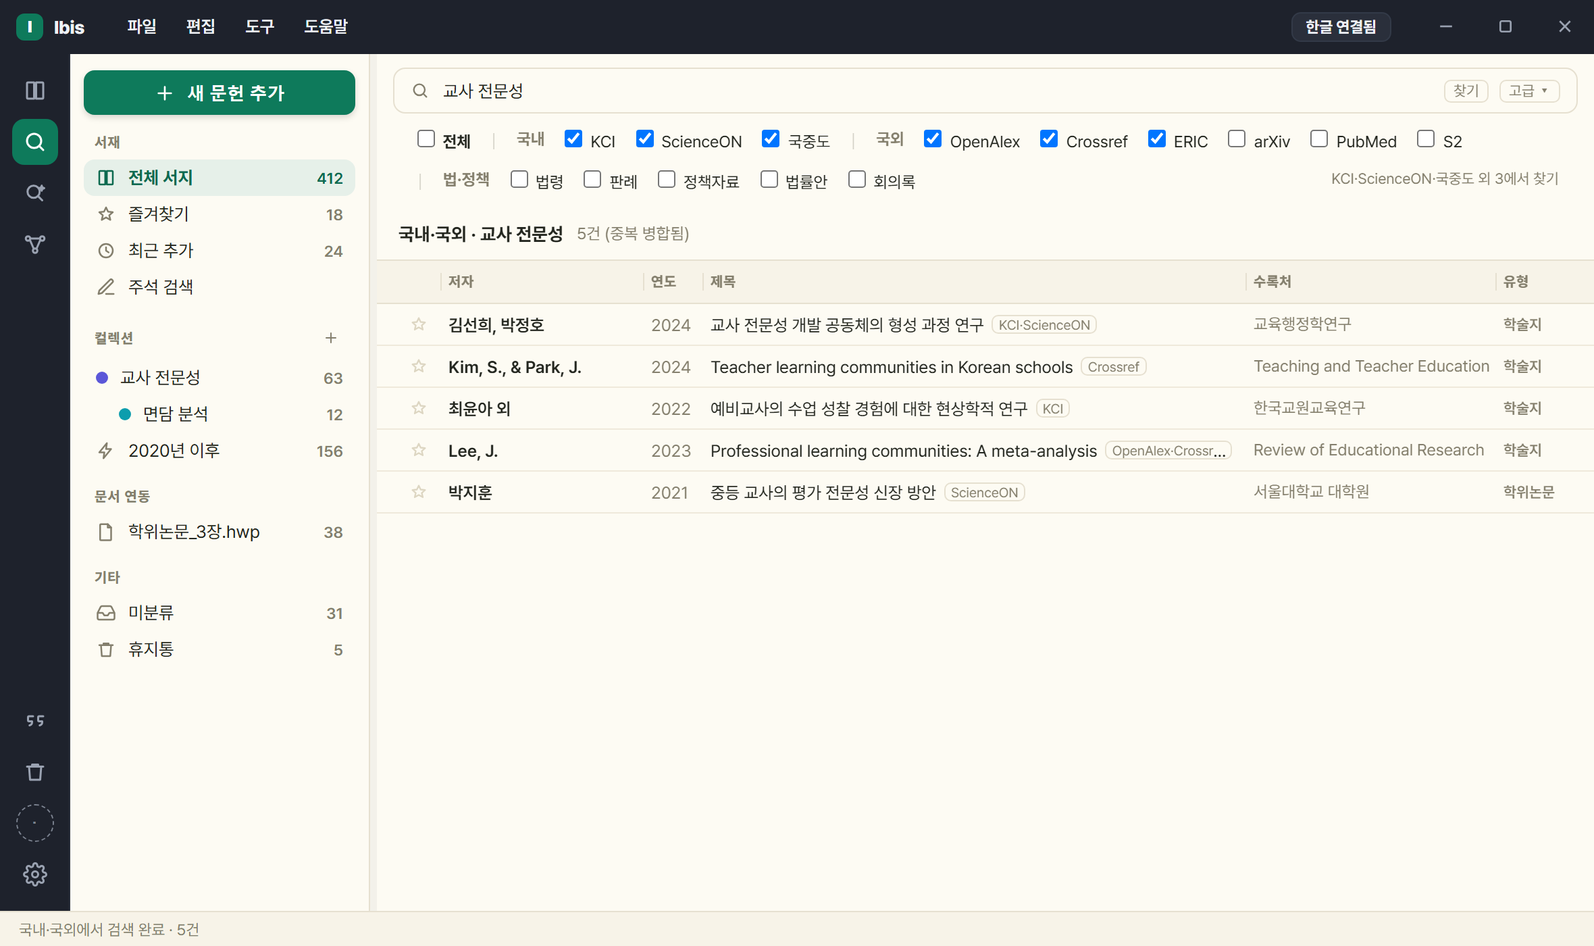
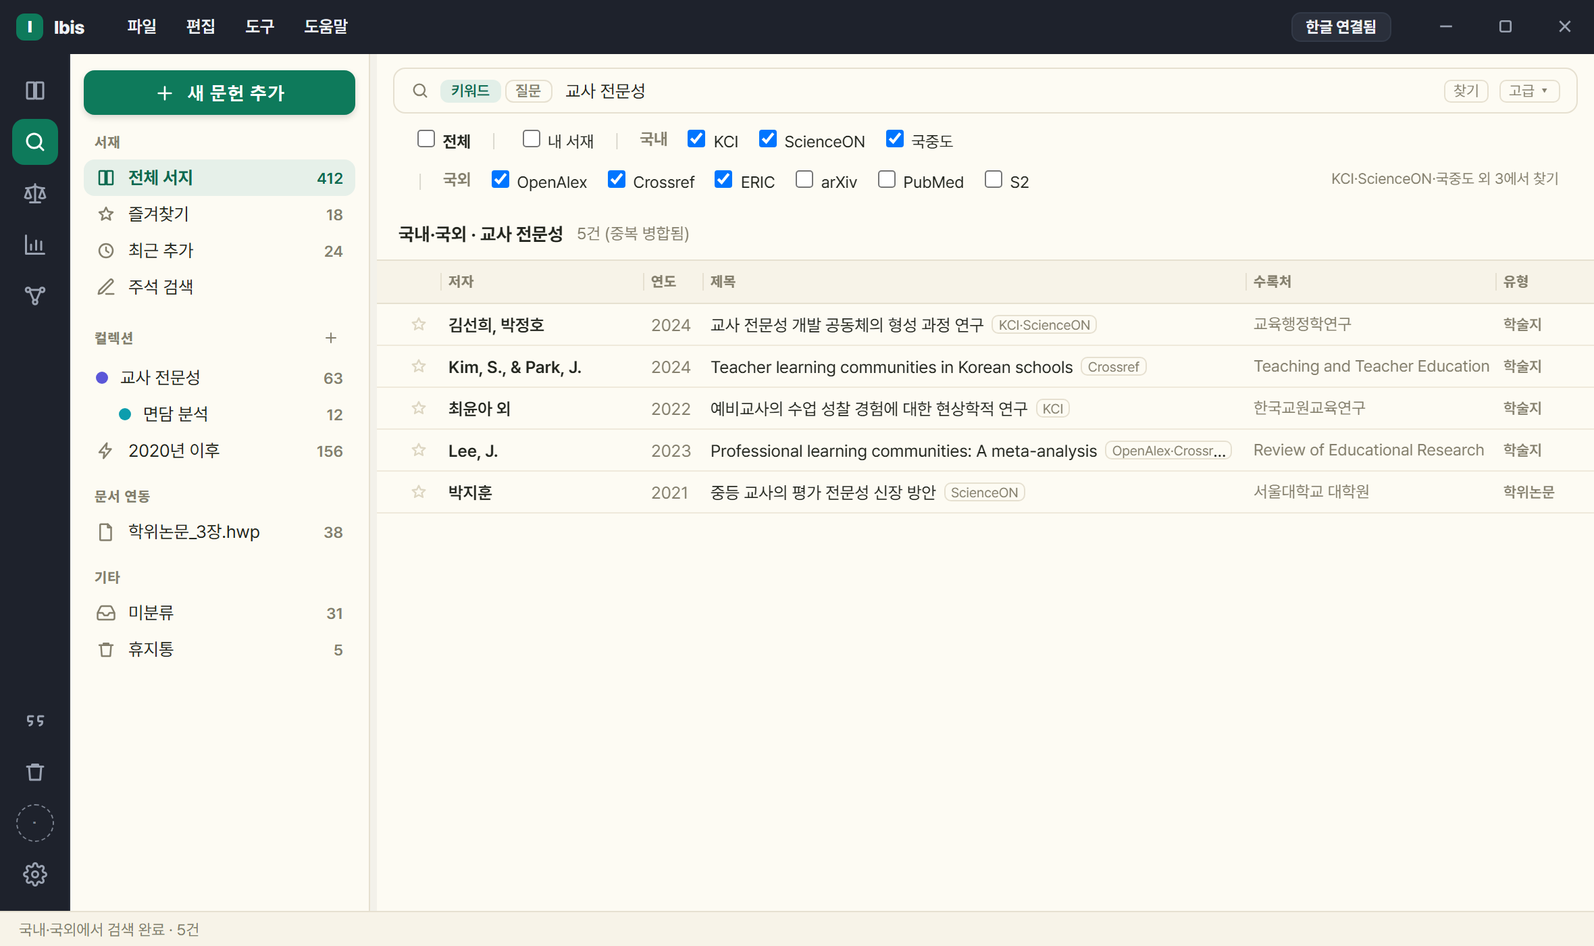
docs: 2026.9.12 반영 — 레일 찾기 아이콘 셋(학술·법·정책·통계) + 키워드/질문 칩 · 통계(KOSIS) 절 · 내 서재 칸 통일 · 캡처 재생성

diff --git a/docs/USAGE.md b/docs/USAGE.md
@@ -1,6 +1,6 @@
 # Ibis 사용 설명서
 
-한국어로 연구하는 사람을 위한 **문헌 관리 앱**. **찾기 → 원문 확보 → 읽기·AI 분석 → 정리·태그 그래프 → 동료와 나누기** 까지 한 프로그램 안에서 합니다. 아래아한글·Word 본문 인용(CWYW)도 그중 한 기능입니다. 기준 버전 **2026.9.11**.
+한국어로 연구하는 사람을 위한 **문헌 관리 앱**. **찾기 → 원문 확보 → 읽기·AI 분석 → 정리·태그 그래프 → 동료와 나누기** 까지 한 프로그램 안에서 합니다. 아래아한글·Word 본문 인용(CWYW)도 그중 한 기능입니다. 기준 버전 **2026.9.12**.
 
 - 표기: `⚙설정` · `파일`·`편집`·`도구` 메뉴 · `새 문헌 추가` 는 화면의 실제 라벨입니다.
 - 좌측 세로 아이콘 줄 = **레일**, 상단의 '○○ 모드 · 문서명' = **상태 배지**.
@@ -58,7 +58,7 @@
 | 영역 | 하는 일 |
 |---|---|
 | **타이틀바** | 메뉴(파일·편집·도구·도움말) + 우측 **연결 상태 배지**(클릭 시 문서 연결) |
-| **레일**(맨 왼쪽) | 서재 · **키워드로 찾기** · **질문으로 찾기** · 그래프 뷰 전환. 세 모드가 **같은 서재 사이드바**를 쓰고(어느 모드에서든 컬렉션을 누르면 그 뷰로 갑니다), 찾기 줄과 그 아래 DB 체크 행도 같은 자리입니다(2026.9.8). 맨 아래에 **계정 동그라미**(로그인하면 구글 사진), 아래쪽에 **인용 편집 창** · 휴지통 · **⚙설정**(맨 아래). 레일의 참고문헌 갱신(⟳) 아이콘은 2026.9.6 에 뺐습니다 — 새로고침으로 오해돼서요. 갱신은 [4.5](#45-전체-갱신--참고문헌-갱신) 의 자리에서 합니다 |
+| **레일**(맨 왼쪽) | 서재 · **찾기(학술)** · **법·정책**(저울) · **통계**(막대) · 그래프 뷰 전환(2026.9.12 — 찾기 셋은 *어디서* 찾을지고, 낱말/문장은 찾기 줄의 **키워드 \| 질문** 칩). 찾기 모드가 **같은 서재 사이드바**를 쓰고(어느 모드에서든 컬렉션을 누르면 그 뷰로 갑니다), 찾기 줄과 그 아래 DB 체크 행도 같은 자리입니다(2026.9.8). 맨 아래에 **계정 동그라미**(로그인하면 구글 사진), 아래쪽에 **인용 편집 창** · 휴지통 · **⚙설정**(맨 아래). 레일의 참고문헌 갱신(⟳) 아이콘은 2026.9.6 에 뺐습니다 — 새로고침으로 오해돼서요. 갱신은 [4.5](#45-전체-갱신--참고문헌-갱신) 의 자리에서 합니다 |
 | **사이드바** | 맨 위 **'새 문헌 추가'** 버튼(추가 방법 메뉴 런처) + 서재 · 컬렉션 · 스마트 컬렉션 · 문서 연동 · 기타(미분류·중복 점검·휴지통·연결 안 된 PDF) |
 | **목록** | 검색줄 + 필터 칩 + 정렬·폭 조절 가능한 문헌 표 |
 | **상세 패널** | 서지정보 · 인용 미리보기 · 첨부. 인용 삽입과 원문·AI 동작 버튼 |
@@ -114,17 +114,18 @@
 
 ### 3.1 질문으로 찾기 (2026.9.1)
 
-낱말이 아니라 **연구 질의를 문장으로** 던지면, 국내외 학술 DB 를 뒤져 **관련도 순위**로 돌려줍니다. 레일 **세 번째 아이콘**입니다.
+낱말이 아니라 **연구 질의를 문장으로** 던지면, 국내외 학술 DB 를 뒤져 **관련도 순위**로 돌려줍니다. 레일 **찾기(학술)** 아이콘을 누르고 찾기 줄 왼쪽의 **[질문]** 칩을 켭니다(2026.9.12 — 별도 아이콘이 아니라 키워드/질문 **모드 칩**입니다. 통계 아이콘에서도 됩니다 — [3.2-1](#32-1-통계kosis--표-찾기--수치-보기--데이터세트로-인용-2026912); 법·정책은 키워드뿐).
 
 결과는 **키워드로 찾기와 같은 표**에 나옵니다(2026.9.8 — 그전에는 별도 카드 목록이었습니다). 맨 왼쪽에 **관련도 칸**(순위 · 막대 · 0~1 점수)이 하나 더 붙고, 그 칸은 질문으로 찾기에서만 보입니다. 최근 질의·보낸 검색어·사정 고지는 표 바로 위 한 줄에 있습니다.
 
 ![질문으로 찾기 — 문장으로 물으면 관련도 순위로 돌려준다](images/ask.png)
 
 1. 질의를 문장으로 적습니다 — 예: `국내 교육사회학 연구에서 교육불평등을 어떻게 다뤄 왔나`.
-2. 찾기 줄 아래 **체크 행**에서 어디서 찾을지 고릅니다: `전체` │ **내 서재** │ **국내**(KCI·ScienceON·국립중앙도서관) │ **국외**(OpenAlex·Crossref·ERIC·arXiv·PubMed). 행 오른쪽 끝에 **예상 크레딧**(`+2~7` 처럼)이 적힙니다.
-   - **내 서재 칸은 기본이 꺼짐**입니다(2026.9.10) — 꺼져 있으면 DB 에서만 찾고, 그중 이미 담아 둔 것에는 **[보관됨]** 배지가 붙습니다. 켜면 서재 문헌도 후보로 순위에 함께 듭니다.
+2. 찾기 줄 아래 **체크 행**에서 어디서 찾을지 고릅니다: `전체` │ **내 서재** │ **국내**(KCI·ScienceON·국립중앙도서관) │ **국외**(OpenAlex·Crossref·ERIC·arXiv·PubMed·S2). 행 오른쪽 끝에 지금 조합(`KCI·ScienceON·국중도 외 3에서 찾기`)과 **예상 크레딧**(`+2~7` 처럼)이 적힙니다. **키워드로 찾기와 같은 목록·같은 기억**입니다(2026.9.12 — 한쪽에서 끄면 다른 쪽도 꺼져 있습니다).
+   - **내 서재 칸은 기본이 꺼짐**입니다(2026.9.10) — 꺼져 있으면 DB 에서만 찾고, 그중 이미 담아 둔 것에는 **[보관됨]** 배지가 붙습니다. 켜면 서재 문헌도 후보로 순위에 함께 듭니다. 키워드로 찾기에도 같은 칸이 있습니다(2026.9.12 — 켜면 서재에서 같은 검색어로 찾은 문헌이 [보관됨]으로 함께 서고, 서재만 켜면 서재 검색).
    - **법·정책 다섯 갈래는 여기에 없습니다**(2026.9.11) — [3.2](#32-검색-소스) 의 키워드로 찾기에서만 씁니다. 법률안의 제안이유는 수백 자인데 회의록은 안건 한 줄이라 채점 재료의 길이가 달라 법률안이 상위를 독식했습니다. 그 문제를 풀기 전까지 뺐습니다.
 3. 진행이 단계로 보입니다 — `검색어 만들기 → DB에서 찾기 → 관련도 매기기 → 정리`(지금 단계가 점멸).
+4. 안내줄의 **검색어**를 누르면 그 검색어로 키워드로 찾기가 바로 돕니다(2026.9.12 — 질문 = 탐색, 키워드 = 확정). 최근 질의는 셋만 보이고 나머지는 **[+N ▾]** 에 접혀 있습니다.
 
 - **검색어는 AI 가 만듭니다** — 국문·영문 조합을 한 번에 짭니다. 낱말을 뽑는 규칙으로 하면 국문 질의에서 엉뚱한 것이 걸립니다.
 - **모은 것을 전부 채점합니다** — 통상 200여 건을 모아 100여 편을 순위로 보여 줍니다. 상한을 두면 정답이 순위에도 못 오르는 일이 생겨 없앴습니다.
@@ -140,11 +141,11 @@
 
 > 낱말로 좁혀 찾는 것은 **키워드로 찾기**([3.2](#32-검색-소스))입니다. 질문으로 찾기는 *무엇을 찾아야 할지부터 넓게 훑을 때* 씁니다. 둘은 짝입니다 — **낱말로 찾으면 키워드로 찾기, 문장으로 물으면 질문으로 찾기**.
 >
-> 두 찾기는 **같은 자리(찾기 줄 아래)에서 같은 방식**으로 DB 를 고릅니다 — 묶음 이름을 누르면 그 묶음이 통째로 켜지고 꺼지며 조합은 자유입니다. 다만 **목록은 다릅니다**: 키워드로 찾기에는 **법·정책 다섯 갈래**와 S2 가 있고, 질문으로 찾기에는 **내 서재** 칸이 있습니다(기본 꺼짐 — 켜면 서재 문헌도 순위에 함께 듭니다). 고른 조합은 키워드 쪽만 기억됩니다.
+> 두 찾기는 **같은 자리(찾기 줄 아래)에서 같은 방식**으로 DB 를 고르고, 2026.9.12 부터 **목록도 기억도 같습니다**(내 서재 칸·S2 둘 다 양쪽에). 법·정책은 별도 아이콘(레일 셋째)이고 키워드로만 찾습니다. 물음표로 끝나는 낱말 검색은 질문 모드를 **권하기만** 합니다 — 자동으로 바꾸지 않습니다(크레딧이 듭니다).
 
 ### 3.2 검색 소스
 
-레일 **두 번째 아이콘 [키워드로 찾기]** 입니다. 어디서 찾을지는 **찾기 줄 바로 아래 체크 행**에서 고릅니다 — `전체 │ 국내 KCI·ScienceON·국중도 │ 국외 OpenAlex·Crossref·ERIC·arXiv·PubMed·S2 │ 법·정책 법령·판례·정책자료·법률안·회의록`(arXiv·PubMed·S2 와 법·정책 다섯은 **기본 꺼짐**). **'국내'·'국외' 글자를 누르면 그 묶음이 통째로 켜지고 꺼지며**, 원하는 대로 섞어도 됩니다(KCI+ERIC 만 같은 조합도 가능). 고른 조합은 기억되고, 행 오른쪽 끝에 `○○에서 찾기` 라고 지금 조합이 적힙니다(고른 것이 없으면 'DB 를 하나 이상 고르세요').
+레일의 찾기 아이콘 셋이 **어디서 찾을지(범위)** 입니다(2026.9.12): **찾기(학술)** — 체크 행 `전체 │ 내 서재 │ 국내 KCI·ScienceON·국중도 │ 국외 OpenAlex·Crossref·ERIC·arXiv·PubMed·S2`(arXiv·PubMed·S2·내 서재는 **기본 꺼짐**) / **법·정책**(저울) — `법령·판례·정책자료·법률안·회의록` / **통계**(막대) — KOSIS 하나라 체크 없이 안내 한 줄. 범위가 갈려 있어 법령 몇 건 사이에 논문 수백 건이 끼지 않고, 조합은 **범위마다 따로** 기억됩니다. **'국내'·'국외' 글자를 누르면 그 묶음이 통째로 켜지고 꺼지며**, 원하는 대로 섞어도 됩니다(KCI+ERIC 만 같은 조합도 가능). 행 오른쪽 끝에 `○○에서 찾기` 라고 지금 조합이 적힙니다(고른 것이 없으면 'DB 를 하나 이상 고르세요'). 낱말로 찾을지 문장으로 물을지는 찾기 줄 왼쪽의 **키워드 \| 질문** 칩입니다.
 
 소스는 **국내 3종 · 해외 6종 · 법·정책 5갈래** 이며, 둘 이상을 켜면 병렬로 질의한 뒤 중복을 합칩니다.
 
@@ -165,7 +166,7 @@
 | 해외 | **PubMed** (2026.9.5) | 의학·보건·간호(미국 국립의학도서관) — 초록·MeSH 주제어 포함, 총건수 표시. 주제 범위가 좁아 **해외 통합·질문으로 찾기에서는 기본 꺼짐** | 불필요 |
 | 법·정책 | **법령** · **판례** | 법제처 국가법령정보 — 현행법령·자치법규, 대법원·하급심 판례 | **불필요(앱 내장)** |
 | 법·정책 | **정책자료** · **법률안** · **회의록** | 국회도서관 — 공공기관 정책자료(회색문헌), 국회 의안, 국회 회의록 | **불필요(앱 내장)** |
-| — | 내 서지 | 보관한 문헌 — 키워드로 찾기의 체크 항목은 아닙니다. **서재 모드의 찾기 줄**에서 찾고([3.8](#38-내-서지-전문검색fts)), 질문으로 찾기에는 '내 서재' 칸이 있습니다([3.1](#31-질문으로-찾기-202691)). 찾은 결과가 이미 서재에 있으면 행에 **'보관됨'** 배지가 붙습니다 | — |
+| — | 내 서지 | 보관한 문헌 — 키워드·질문 두 찾기 모두 **'내 서재'** 칸이 있습니다(2026.9.12, 기본 꺼짐). 켜면 서재에서 같은 검색어로 찾은 문헌이 결과에 **[보관됨]**으로 함께 서고, 서재만 켜면 서재 검색이 됩니다. 서재 모드의 찾기 줄([3.8](#38-내-서지-전문검색fts))은 그대로입니다 | — |
 
 - **KCI 와 국립중앙도서관은 앱 내장 키로 동작합니다** — 사용자가 발급받을 것이 없고 설정에 입력 칸도 없으며, 설치 직후부터 소스 목록에 보입니다.
 - **모든 학술 DB 와 법·정책이 앱 내장 키로 동작합니다**(2026.9.9) — **발급받을 것이 하나도 없습니다.** ScienceON 인증키 세 값을 넣던 칸도 없앴습니다. 오래 적혀 있던 "인증키는 발급받은 공인 IP 에 묶인다" 는 실측으로 반증됐습니다(등록 IP 가 아닌 두 망에서 정상 동작).
@@ -183,6 +184,15 @@
 **총건수 표시** — 목록 머리에 `20건 (총 465건)`, 상태줄에 `국립중앙도서관 · 총 332건 중 20건` 처럼 나옵니다. 총건수를 알려 주지 않는 소스(Crossref·OpenAlex·S2·arXiv·ERIC)는 미상으로 두고 숫자를 적지 않습니다.
 
 ![키워드로 찾기 — 찾기 줄 아래 DB 선택 행, 결과에 출처 배지](images/search.png)
+
+### 3.2-1 통계(KOSIS) — 표 찾기 · 수치 보기 · 데이터세트로 인용 (2026.9.12)
+
+레일의 **통계** 아이콘은 KOSIS 국가통계포털의 통계표를 찾습니다(내장 키 — 설정 없음). 표 하나가 서지 하나(**데이터세트** 유형)입니다.
+
+- **키워드** — 통합검색은 검색어 하나·한 번에 최대 20건·쪽 넘김 없음. 더 보려면 검색어를 좁히세요. 같은 작성기관·같은 표명의 **연도별 표는 최신 표 하나로** 합쳐 보이고 다른 연도는 표 주석에 적힙니다. 목록 열은 작성기관 · 연도 · 통계표명 · 통계조사.
+- **질문** — "초등학생 1인당 월평균 사교육비는 얼마나 되나?" 처럼 문장으로 물으면 검색어를 만들어 표를 모으고, **조사 개요(정의·목적) + 표명·조사·분류 경로 + 항목·분류 이름 + 표 주석**으로 관련도를 매깁니다. 상위 5개 표는 **최근 시점 수치**가 행에 📊 발췌로 미리 보입니다(열기 전에 숫자를 봅니다). 크레딧은 학술 질문과 같습니다.
+- **상세**(서지 상세와 다른 화면) — 표명·작성기관·조사·수록 기간 → **[수치 보기]**(수록 주기·항목·최근 N시점을 고르면 **시점 × 분류·항목** 표) → 분류 경로·표 주석 → 인용 → 서지 정보. 읽는 화면이라 피벗·차트는 [KOSIS 에서 보기]로, 원자료는 **[CSV 저장]**(분류 코드·이름·항목·단위·시점·값)으로 받습니다. 한 번에 4만 셀까지(KOSIS 제한) — 넘으면 시점 수나 항목을 좁히라고 알립니다.
+- **담기·인용** — 담는 순간 **인출일**이 오늘로 적힙니다(수치는 갱신되므로 언제 봤는지가 서지의 일부). 인용은 `국가데이터처 (2025). 학교급별 학생 1인당 월평균 사교육비 [데이터세트]. 초중고사교육비조사. 2007~2025. KOSIS 국가통계포털. URL (인출일: 2026. 9. 9.)` 꼴이고, 영문 APA·Vancouver·IEEE·Chicago·MLA 도 됩니다. 데이터세트에는 PDF 확보·AI 노트·검토 버튼이 없습니다(수치는 문헌이 아닙니다).
 
 ### 3.3 여러 DB 를 한 번에(병렬 + 중복 병합)
 
@@ -233,7 +243,8 @@ DOI 가 논문의 권위 키라면 단행본은 **ISBN** 입니다. 학술 DB(KC
 
 **전역 한정자**(행이 아니라 질의 전체에 걸립니다)
 
-- **유형(공통)** · 정렬 · 발행년 범위. 유형에 **법령·조례**가 있습니다(2026.9.9 — 담기고 인용도 되는데 고를 수가 없었습니다). (어느 DB 에서 찾을지는 고급 검색 안이 아니라 **찾기 줄 아래 체크 행**입니다.)
+- **유형(공통)** · 정렬 · 발행년 범위. 유형에 **법령·조례**(2026.9.9)와 **데이터세트**(2026.9.12)가 있습니다. (어느 DB 에서 찾을지는 고급 검색 안이 아니라 **찾기 줄 아래 체크 행**입니다.)
+- **고급 검색은 범위를 따릅니다**(2026.9.12) — 법·정책과 통계는 두 API 다 검색어 하나만 받으므로 조건 줄이 하나(필드 '전체' 고정)이고 정렬 줄은 없습니다(관련도순뿐). 통계는 유형 줄 대신 **작성기관·통계조사** 칸(받은 목록 안에서 거름)과 **수록 연도**, 법·정책은 **공포·제안 연도**를 씁니다.
 - 유형 값: 전체 · 학술논문 · 학위논문 · 단행본 · 보고서 · 연속간행물 · 웹자료 · 비도서(소스마다 고를 수 있는 값이 다릅니다).
 - `자료구분`(국립중앙도서관 전용)은 서버로 그대로 보내는 **자료 종별 13종**(일반도서·학위논문·정부간행물·공공간행물·아동도서·교과서·학습참고서·한장본·점자도서·장애인대체자료·비도서·연속간행물·온라인자료)이며 '유형(공통)' 과는 다릅니다.
 - ⚠ **'단행본'·'보고서' 유형은 그 갈래의 일부만 찾습니다** — 국립중앙도서관 자료구분은 한 번에 하나만 보낼 수 있어 대표 코드 하나로 묻습니다(단행본=일반도서만, 보고서=정부간행물만). 앱이 이 사실을 결과줄에 매번 밝힙니다.

diff --git a/docs/FAQ.md b/docs/FAQ.md
@@ -1,6 +1,6 @@
 # Ibis FAQ
 
-한국 연구자를 위한 서지·인용 관리 앱 **Ibis** 자주 묻는 질문. 기준 버전 **2026.9.11**.
+한국 연구자를 위한 서지·인용 관리 앱 **Ibis** 자주 묻는 질문. 기준 버전 **2026.9.12**.
 
 - **국내 학술 검색 → 원문 확보 → AI 분석 → 태그 그래프**까지 한 프로그램에서 끝냅니다.
 - 한글(HWP)·Word 본문 인용 삽입(CWYW)도 그중 한 기능입니다.
@@ -239,13 +239,18 @@
 
 **Q. '외부 검색'·'DB 검색' 이 안 보여요.**
 
-- 지금 이름은 **키워드로 찾기** 입니다(레일 두 번째 아이콘). '외부 검색'(~2026.9.6) → 'DB 검색'(2026.9.7) → **'키워드로 찾기'**(2026.9.8) 로 이름만 바뀌었고 하는 일은 같습니다. **질문으로 찾기**와 짝을 맞춘 이름입니다 — 낱말로 찾으면 키워드로, 문장으로 물으면 질문으로.
+- 지금 이름은 **키워드로 찾기** 입니다. '외부 검색'(~2026.9.6) → 'DB 검색'(2026.9.7) → **'키워드로 찾기'**(2026.9.8) 로 이름만 바뀌었고 하는 일은 같습니다. **질문으로 찾기**와 짝을 맞춘 이름입니다 — 낱말로 찾으면 키워드로, 문장으로 물으면 질문으로.
+- **2026.9.12 부터 레일에는 '질문으로 찾기' 아이콘이 따로 없습니다.** 레일의 찾기 아이콘 셋(**찾기(학술) · 법·정책 · 통계**)은 *어디서* 찾을지고, 낱말/문장은 찾기 줄 왼쪽의 **키워드 | 질문** 칩으로 고릅니다(질문은 학술·통계에서만).
 - 화면도 바뀌었습니다 — 예전에는 이 모드에서 사이드바가 소스 목록이었는데, 이제 **세 모드(서재·키워드로 찾기·질문으로 찾기)가 같은 서재 사이드바**를 쓰고 **찾기 줄과 DB 체크 행도 같은 자리**입니다. 사이드바의 컬렉션을 누르면 그 뷰로 갑니다.
 - 질문으로 찾기의 결과도 이제 **같은 표**에 나옵니다(2026.9.8) — 맨 왼쪽 관련도 칸만 거기서 더 보입니다.
 
 **Q. 두 찾기의 DB 목록이 서로 다릅니다.**
 
-- 맞습니다. 두 찾기는 **같은 자리(찾기 줄 아래)에서 같은 방식**으로 DB 를 고릅니다 — 묶음 이름을 누르면 그 묶음이 통째로 켜지고 꺼지며 조합은 자유입니다. 다만 **목록은 다릅니다**: 키워드로 찾기에는 **법·정책 다섯 갈래**와 S2 가 있고, 질문으로 찾기에는 **내 서재** 칸이 있습니다(기본 꺼짐 — 켜면 서재 문헌도 순위에 함께 듭니다). 고른 조합은 키워드 쪽만 기억됩니다.
+- 2026.9.12 부터 **같습니다** — 키워드·질문 두 모드가 같은 목록(내 서재 칸·S2 포함)을 쓰고 **같은 조합을 기억**합니다(한쪽에서 끄면 다른 쪽도 꺼져 있습니다). 법·정책과 통계는 별도 레일 아이콘(범위)이라 학술 목록에 섞이지 않고, 조합은 범위마다 따로 기억됩니다. 통계는 KOSIS 하나라 체크 행 대신 안내 한 줄입니다.
+
+**Q. 통계(KOSIS)도 찾을 수 있나요? (2026.9.12)**
+
+- 레일의 **통계** 아이콘(막대)입니다. 키워드로 찾으면 통계표 목록(한 번에 최대 20건 — 검색어를 좁히세요), **[질문]** 칩을 켜고 문장으로 물으면 조사 개요·항목·분류 이름으로 관련도를 매기고 상위 표의 **최근 수치**를 행에 미리 보입니다. 표를 열면 **[수치 보기]**(시점 × 분류·항목 표 · CSV 저장), 담으면 **데이터세트**로 인용됩니다(인출일 자동). 같은 표의 연도별 판은 최신 하나로 합칩니다.
 
 **Q. 어떤 검색 소스를 쓸 수 있나요?**
 

diff --git a/README.md b/README.md
@@ -51,9 +51,11 @@
 자세한 흐름은 **[사용 설명서(USAGE)](docs/USAGE.md)**, 막히면 **[FAQ·문제 해결](docs/FAQ.md)**을 보세요.
 
 ## 주요 기능
-**두 가지 찾기 — 키워드로, 질문으로**
-- **키워드로 찾기** — 낱말로 좁혀 찾습니다(레일 두 번째). 찾기 줄 아래 체크 행에서 DB 를 골라 여러 곳을 한 번에 질의하고 중복을 합칩니다
-- **질문으로 찾기** — 낱말이 아니라 **연구 질의를 문장으로** 던지면 국내외 학술 DB 를 뒤져 **관련도 순위**로 돌려줍니다(레일 세 번째). 결과는 키워드로 찾기와 **같은 표**에 나오고, 관련도 칸이 하나 더 붙습니다
+**어디서 찾을지는 레일 아이콘 셋, 어떻게 찾을지는 칩 둘 (2026.9.12)**
+- 레일: **찾기(학술)** · **법·정책**(법령·판례·정책자료·법률안·회의록) · **통계**(KOSIS). 찾기 줄 왼쪽의 **키워드 | 질문** 칩으로 낱말로 찾을지 문장으로 물을지 고릅니다
+- **키워드로 찾기** — 낱말로 좁혀 찾습니다. 찾기 줄 아래 체크 행에서 DB 를 골라 여러 곳을 한 번에 질의하고 중복을 합칩니다. **내 서재** 칸을 켜면 서재 문헌이 [보관됨]으로 함께 섭니다
+- **질문으로 찾기** — 낱말이 아니라 **연구 질의를 문장으로** 던지면 학술 DB 를 뒤져 **관련도 순위**로 돌려줍니다. 결과는 키워드로 찾기와 **같은 표**에 나오고, 관련도 칸이 하나 더 붙습니다. **통계에서도 됩니다** — 조사 개요·항목·분류 이름으로 표를 맞추고 상위 표의 최근 수치를 행에 미리 보입니다
+- **통계(KOSIS)** — 통계표를 찾아 **수치를 읽고**(시점 × 분류·항목 표, CSV 저장) **데이터세트로 인용**합니다(인출일 자동). 연도별로 갈린 같은 표는 최신 하나로 합칩니다
 - **검색어는 AI 가 국문·영문 조합으로** 만들고, 모은 것(통상 200여 건)을 **전부 채점**해 100여 편을 보여 줍니다
 - 국립중앙도서관 **단행본도 순위에** 오릅니다 — 책소개가 없으면 카카오 책·알라딘에서 입혀 채점합니다
 - 질의에 적은 **기간·유형·저자·학술지·제외 조건까지 읽습니다**(2026.9.3) — `2015년 이후 학위논문만` 처럼 문장 안에 넣으면 그대로 검색 조건이 됩니다
